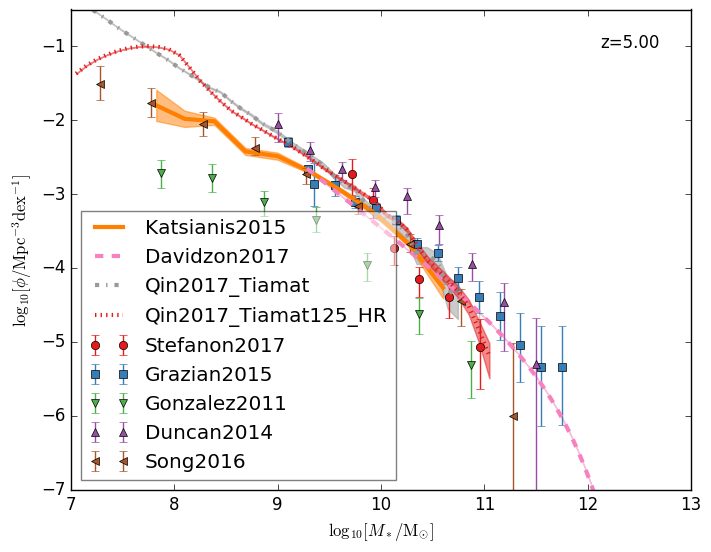
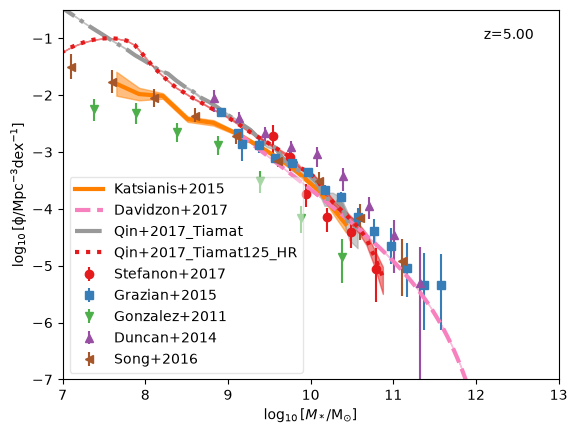
README: update the usage, examples and feature tables
- Explain the arguments and what target_observation holds, and the h
  conversions (correlation does not apply h yet, issue #7).
- Example 1: output of the current version, the same on every pandas.
- Example 2: the Magorrian example claimed an h conversion that correlation
  does not do; show the UV luminosity function at z = 7 instead.
- Example 3: plain code (it can be pasted), with the numpy import and
  positive yerr for upper limits; GSMF.png regenerated with it (current
  names, IMF_out=Kroupa and h conversions).
- Feature tables: add GLF_OIII and the x of each number density, drop BHM
  from the correlations (it is a number density).
- Docs badge, an Adding data section, and the contributors.

Changed region(s): [[0.0, 0.0, 0.9983, 0.9908], [0.8423, 0.06, 0.9359, 0.0901], [0.156, 0.2402, 0.1872, 0.2702]]

diff --git a/README.rst b/README.rst
@@ -5,18 +5,23 @@ AstroDataPy
     :target: https://github.com/qyx268/astrodatapy/actions/workflows/tests.yml
     :alt: Tests
 
+.. image:: https://readthedocs.org/projects/astrodatapy/badge/?version=latest
+    :target: https://astrodatapy.readthedocs.io/en/latest/
+    :alt: Documentation
+
 Python tools to collect astronomical data.
 
 This is a python package dedicated to collect up-to-date astronomical 
 data from both observational and modelling campaigns, with a focus on 
-galaxy properties. Current package includes 1) statistical properties 
-such as the number densities of galaxies (as functions of stellar mass, 
-UV magnitude, star formation rate) and AGN (as functions of black hole 
-mass, quasar UV/optical/bolometric/X-ray luminosities); 2) correlations 
-between 
-galaxies properties such as the Magorrian relation, Tully Fisher relation, 
-Disk size - stellar mass relation, and halo - stellar mass relation, etc; 
-and 3) clustering of quasars such as the two point correlation function.
+galaxy properties. Current package includes 1) statistical properties
+such as the number densities of galaxies (as functions of stellar mass,
+UV magnitude, [OIII] luminosity and star formation rate) and AGN (as functions
+of black hole mass and quasar UV/optical/bolometric/X-ray luminosities);
+2) correlations between galaxy properties such as the Magorrian relation,
+Tully Fisher relation, disk size - stellar mass relation and halo - stellar
+mass relation; and 3) clustering of quasars such as the two point
+correlation function. Every dataset is converted to common units and to the
+Hubble parameter you ask for.
 
 Current modelling results include DRAGONS (Meraxes).
 
@@ -52,95 +57,139 @@ Without the ``notebooks`` extra, the notebook tests are skipped.
 Usage
 =====
 
-Example 1
----------
-read quasar two point correlation function at z = 4 with a redshift range of [3.5, 4.5]
+Each of the three classes, ``number_density``, ``correlation`` and
+``clustering``, takes a feature name (see `Features`_) and a target redshift,
+and loads every dataset of that feature with a data file within ``z_tol``
+(default 0.25) of it:
 
 .. code:: python
 
+    from astrodatapy.number_density import number_density
+    obs = number_density(feature='GLF_UV', z_target=7.0, h=0.6774, quiet=True)
+
+The other arguments are ``h``, the Hubble parameter H0/(100 km/s/Mpc) to
+convert the data to (default 1); ``quiet``, to stop it printing what it loads
+and converts; and, for ``number_density`` only, ``IMF_out``, the IMF to convert
+stellar masses and star formation rates to (``Salpeter``, ``DietSalpeter``,
+``Kroupa`` or ``Chabrier``; default ``Kroupa``).
+
+The datasets found are in ``obs.target_observation``, a pandas DataFrame indexed
+by dataset name, with columns:
+
+* ``DataType``: ``data``, ``dataULimit`` (upper limits), ``data_sim`` (a model),
+  or the parametric fit it was evaluated from (e.g. ``Schechter``);
+* ``FileName``: the data file loaded;
+* ``Data``: a numpy array. For ``number_density`` its columns are x, phi, and the
+  upper and lower bound of phi, with phi linear in Mpc^-3 dex^-1 (Mpc^-3 mag^-1
+  for magnitudes); for upper limits all three phi columns hold the limit. For
+  ``correlation`` they are x, the upper and lower bound of x, y, and the upper
+  and lower bound of y.
+
+``number_density`` rescales phi as h^3, stellar masses, star formation rates
+and luminosities as h^-2, magnitudes by 5 log10(h/h_obs), and black hole masses
+according to how they were measured. ``clustering`` rescales the correlation
+length; ``correlation`` does not apply ``h`` yet (issue #7). See the
+`data format <https://github.com/qyx268/astrodatapy/blob/master/astrodatapy/data/README.rst>`__
+for details.
+
+Example 1
+---------
+read the quasar two point correlation function at z = 4 with a redshift range of [3.5, 4.5]
+
+.. code:: python
+
+    >>> import numpy as np
     >>> from astrodatapy.clustering import clustering
     >>> obs = clustering(feature = 'QC_2PTCF', z_target = 4.0, z_tol = 0.5)
-        You are requesting QC_2PTCF at z_target=4.00 with a tolerance of z_tol=0.50 and h=1.000
-        quiet=True to silent
-        available data of QC_2PTCF includes:
-        Shen2007 Shen2009 He2018 Eftekharzadeh2015 Chehade2016 Retana-Montenegro2016
-        
-        Loading observational data from He2018...
-        Filename /home/yqin/.local/lib/python3.6/site-packages/astrodatapy-0.0.dev29-py3.6.egg/astrodatapy/data//QC_2PTCF/z3pt8.dat                                                                                
-        ..done
+    You are requesting QC_2PTCF at z_target=4.00 with a tolerance of z_tol=0.50 and h=1.000
+    quiet=True to silent
+    available data of QC_2PTCF includes:
+    Shen2007 Shen2009 He2018 Eftekharzadeh2015 Chehade2016 Retana-Montenegro2016
+
+    Loading observational data from He2018...
+    Filename .../site-packages/astrodatapy/data//QC_2PTCF/z3pt8.dat
+    ..done
     >>> # show all available data of QC_2PTCF
-    >>> print(obs.available_observation)
-        ['Shen2007' 'Shen2009' 'He2018' 'Eftekharzadeh2015' 'Chehade2016'
-        'Retana-Montenegro2016']
-    >>> # show redshifts of all available data of QC_2PTCF
-    >>> print(obs.z_available_observation)
-        [0.6 1.5 3.8 2.5 3.2 4.5]
+    >>> list(obs.available_observation)
+    ['Shen2007', 'Shen2009', 'He2018', 'Eftekharzadeh2015', 'Chehade2016', 'Retana-Montenegro2016']
+    >>> # show the redshifts of all available data of QC_2PTCF
+    >>> np.sort(obs.z_available_observation)
+    array([0.6, 1.5, 2.5, 3.2, 3.8, 4.5])
     >>> # show the target data of QC_2PTCF at z = 4
-    >>> print(obs.target_observation)
-                            DataType   FileName                                               Data
-        Name                                                                                      
-        He2018  PowerLaw_2COMPONENTS  z3pt8.dat  [[0.10115794542598985, 6345.99167885821, 12459...
-        
+    >>> obs.target_observation[['DataType', 'FileName']]
+                        DataType   FileName
+    Name
+    He2018  PowerLaw_2COMPONENTS  z3pt8.dat
+
 
 Example 2
 ---------
-read Magorrian Relation at redshift 0, output with h=0.678, and do not show information
+read the UV luminosity function at z = 7, converted to h = 0.6774, without printing information
 
 .. code:: python
 
-  >>> from astrodatapy.correlation import correlation
-  >>> obs = correlation(feature = 'Magorrian', z_target = 0, quiet = 1, h = 0.678)
+    >>> from astrodatapy.number_density import number_density
+    >>> obs = number_density(feature = 'GLF_UV', z_target = 7.0, h = 0.6774, quiet = True)
+    >>> print(obs.n_target_observation)
+    14
+    >>> # M1600, phi, upper and lower bound of phi of Bouwens et al. (2021)
+    >>> obs.target_observation.loc['Bouwens2021', 'Data'][:3]
+    array([[-2.22612642e+01,  9.06236306e-07,  2.71870892e-06, -9.06236306e-07],
+           [-2.17612642e+01,  3.71556885e-05,  4.71242879e-05,  2.71870892e-05],
+           [-2.12612642e+01,  4.25931064e-05,  5.61866509e-05,  2.89995618e-05]])
 
 
 Example 3
 ---------
-plot galaxy stellar mass function at redshift 5 and show labels
+plot the galaxy stellar mass function at redshift 5 and show labels
 
 .. code:: python
 
-    >>> import matplotlib.pyplot as plt
-    >>> from astrodatapy.number_density import number_density
-    >>> colors     = ['#e41a1c','#377eb8','#4daf4a','#984ea3','#ff7f00','#a65628','#f781bf','#999999'] * 4
-    >>> markers    = ['o','s','v','^','<','>','p','*','D','.','8'] * 4
-    >>> linestyles = ['-','--','-.',':']
-    >>> 
-    >>> z   = 5.0
-    >>> obs = number_density(feature = 'GSMF', z_target = 5.0, quiet = 1, h=0.678)
-    >>> 
-    >>> j_data = 0
-    >>> k_func = 0
-    >>> fig, ax = plt.subplots(1, 1)
-    >>> for ii in range(obs.n_target_observation):
-    >>>     data       = obs.target_observation['Data'].iloc[ii]
-    >>>     label      = obs.target_observation.index[ii]
-    >>>     datatype   = obs.target_observation['DataType'].iloc[ii]
-    >>>     color      = colors[ii]
-    >>>     marker     = markers[j_data]
-    >>>     linestyle  = linestyles[k_func]
-    >>>     data[:,1:] = np.log10(data[:,1:])
-    >>>     if datatype == 'data':
-    >>>         ax.errorbar(data[:,0],  data[:,1], yerr = [data[:,1]-data[:,3],data[:,2]- data[:,1]],\
-    >>>                     label=label,color=color,fmt=marker)
-    >>>         j_data +=1
-    >>>     elif datatype == 'dataULimit':
-    >>>         ax.errorbar(data[:,0],  data[:,1], yerr = -0.2*data[:,1], uplims=True,\
-    >>>                     label=label,color=color,fmt=marker)
-    >>>         j_data +=1
-    >>>     else:
-    >>>         ax.plot(data[:,0],data[:,1],label=label,color=color,linestyle=linestyle,lw=3)
-    >>>         ax.fill_between(data[:,0], data[:,2],data[:,3],color=color,alpha=0.5)
-    >>>         k_func +=1
-    >>> 
-    >>> ax.set_xlim(7, 13)
-    >>> ax.set_ylim(-7, -0.5)
-    >>> ax.text(0.95,0.95, "z=%.2f"%z,horizontalalignment='right',\
-    >>>       verticalalignment='top',transform=ax.transAxes)
-    >>> leg = ax.legend(loc='lower left')
-    >>> leg.get_frame().set_alpha(0.5)
-    >>> ax.set_xlabel(r"$\log_{10}[M_*/{\rm M_{\odot}}]$")
-    >>> ax.set_ylabel(r"$\log_{10}[\rm \phi/Mpc^{-3} dex^{-1}]$")
-    >>> plt.savefig('./GSMF.png',bbox_inches='tight')
-   
+    import numpy as np
+    import matplotlib.pyplot as plt
+    from astrodatapy.number_density import number_density
+
+    colors     = ['#e41a1c','#377eb8','#4daf4a','#984ea3','#ff7f00','#a65628','#f781bf','#999999'] * 4
+    markers    = ['o','s','v','^','<','>','p','*','D','.','8'] * 4
+    linestyles = ['-','--','-.',':']
+
+    z   = 5.0
+    obs = number_density(feature='GSMF', z_target=z, quiet=True, h=0.678)
+
+    j_data = 0
+    k_func = 0
+    fig, ax = plt.subplots(1, 1)
+    for ii in range(obs.n_target_observation):
+        data      = obs.target_observation['Data'].iloc[ii]
+        label     = obs.target_observation.index[ii]
+        datatype  = obs.target_observation['DataType'].iloc[ii]
+        color     = colors[ii]
+        marker    = markers[j_data]
+        linestyle = linestyles[k_func]
+        data[:,1:] = np.log10(data[:,1:])
+        if datatype == 'data':
+            ax.errorbar(data[:,0], data[:,1], yerr=[data[:,1]-data[:,3], data[:,2]-data[:,1]],
+                        label=label, color=color, fmt=marker)
+            j_data += 1
+        elif datatype == 'dataULimit':
+            ax.errorbar(data[:,0], data[:,1], yerr=0.2*np.abs(data[:,1]), uplims=True,
+                        label=label, color=color, fmt=marker)
+            j_data += 1
+        else:
+            ax.plot(data[:,0], data[:,1], label=label, color=color, linestyle=linestyle, lw=3)
+            ax.fill_between(data[:,0], data[:,2], data[:,3], color=color, alpha=0.5)
+            k_func += 1
+
+    ax.set_xlim(7, 13)
+    ax.set_ylim(-7, -0.5)
+    ax.text(0.95, 0.95, "z=%.2f" % z, horizontalalignment='right',
+            verticalalignment='top', transform=ax.transAxes)
+    leg = ax.legend(loc='lower left')
+    leg.get_frame().set_alpha(0.5)
+    ax.set_xlabel(r"$\log_{10}[M_*/{\rm M_{\odot}}]$")
+    ax.set_ylabel(r"$\log_{10}[\rm \phi/Mpc^{-3} dex^{-1}]$")
+    plt.savefig('./GSMF.png', bbox_inches='tight')
+
 .. image:: https://raw.githubusercontent.com/qyx268/astrodatapy/master/docs/astrodatapy/GSMF.png
   :width: 350
 
@@ -152,75 +201,36 @@ shows how different datasets are combined into one empirical constraint
 Documentation
 =============
 
-http://astrodatapy.readthedocs.io
+https://astrodatapy.readthedocs.io, including a list of every dataset with its
+redshifts and reference.
 
 Features
-============
+========
 
 Number density
 --------------
 
-==============             ==========================================
-**Features**               **Descriptions**
---------------             ------------------------------------------
-BHM                        Black Hole Mass
-BHMF                       Black Hole Mass Function
-GLF_UV                     Galaxy Luminosity Function -- UV
-GSMF                       Galaxy Stellar Mass Function -- all
-GSMF_Blue                  Galaxy Stellar Mass Function -- blue
-GSMF_Bulge                 Galaxy Stellar Mass Function -- bulge
-GSMF_Disk                  Galaxy Stellar Mass Function -- disk
-GSMF_Quiescent             Galaxy Stellar Mass Function -- quiescent
-GSMF_Red                   Galaxy Stellar Mass Function -- red
-QLF_bolometric             Quasar Luminosity Function -- bolometric
-QLF_optical                Quasar Luminosity Function -- optical
-QLF_UV                     Quasar Luminosity Function -- UV
-QLF_Xray                   Quasar Luminosity Function -- X-ray
-SFRF                       Star Formation Rate Function
-==============             ==========================================
+==============  =========================================  ======================================
+**Features**    **Descriptions**                           **x**
+--------------  -----------------------------------------  --------------------------------------
+BHM             Black Hole Mass                            redshift (y is the black hole mass)
+BHMF            Black Hole Mass Function                   log10(M_BH/Msun)
+GLF_UV          Galaxy Luminosity Function -- UV           M1600 or M1500 (AB)
+GLF_OIII        Galaxy Luminosity Function -- [OIII] 5008  log10(L[OIII]/erg s^-1)
+GSMF            Galaxy Stellar Mass Function -- all        log10(M*/Msun)
+GSMF_Blue       Galaxy Stellar Mass Function -- blue       log10(M*/Msun)
+GSMF_Bulge      Galaxy Stellar Mass Function -- bulge      log10(M*/Msun)
+GSMF_Disk       Galaxy Stellar Mass Function -- disk       log10(M*/Msun)
+GSMF_Quiescent  Galaxy Stellar Mass Function -- quiescent  log10(M*/Msun)
+GSMF_Red        Galaxy Stellar Mass Function -- red        log10(M*/Msun)
+QLF_bolometric  Quasar Luminosity Function -- bolometric   log10(L_bol/Lsun)
+QLF_optical     Quasar Luminosity Function -- optical      M_B
+QLF_UV          Quasar Luminosity Function -- UV           M1450 or M1500 (AB)
+QLF_Xray        Quasar Luminosity Function -- X-ray        log10(L_X/erg s^-1), rest 2-10 keV
+SFRF            Star Formation Rate Function               log10(SFR/Msun yr^-1)
+==============  =========================================  ======================================
 
-QLF_Xray data
-~~~~~~~~~~~~~
-
-The X-ray luminosity function is tabulated against ``log10(LX/erg s^-1)`` in
-the rest-frame 2-10 keV band, with ``Phi = dPhi/dlogLX`` in
-``Mpc^-3 dex^-1``. Because the abscissa is a luminosity rather than a
-magnitude, it is rescaled as ``h^-2``, as for QLF_bolometric.
-
-=====================  ============  =======================================================
-**Dataset**            **Redshift**  **Reference**
----------------------  ------------  -------------------------------------------------------
-BarlowHall2022         6.05          Barlow-Hall et al. 2023, MNRAS 519, 6055 (Swift/ExSeSS)
-BarlowHall2022_ulimit  6.05          as above, 1 sigma upper limit
-Meraxes_obscured       5.007, 6.088  Meraxes (DRAGONS) model line, after obscuration
-Pouliasis2024          5.5           Pouliasis et al. 2024, A&A 685, A97 (Chandra + XMM)
-Pouliasis2024_ulimit   5.5           as above, 1 sigma upper limits
-Roster2026_DR2         0.1 - 4.9     Roster et al. 2026, arXiv:2607.27887 (eROSITA DR2)
-Roster2026_eFEDS       0.1 - 4.9     Roster et al. 2026, arXiv:2607.27887 (eROSITA eFEDS)
-Wolf2021               6.05          Wolf et al. 2021, A&A 647, A5 (eROSITA/eFEDS)
-=====================  ============  =======================================================
-
-The redshift column gives the value to pass as ``z_target``. Each observational
-file is tabulated at the centre of its redshift bin: 5.0-6.0 for Pouliasis2024 and
-5.7-6.4 for Wolf2021 and BarlowHall2022. Roster2026 provides nine redshifts,
-0.1, 0.4, 0.7, 1.0, 1.5, 2.0, 3.0, 4.0 and 4.9, one file each, so use a small
-``z_tol`` to select a single one.
-
-``info.txt`` also gives the width of each dataset's luminosity bins in dex
-(column ``BinWidth``: 0.5 for Pouliasis2024 and Wolf2021, 1.0 for Barlow-Hall and Roster, 0.2 for
-the model line), so that a point can be drawn with an x error bar of half that width.
-
-``Meraxes_obscured`` is a model line, not data (type ``data_sim``, drawn as a line with a band, like
-``Qin2017_Tiamat`` in the other quasar luminosity functions). It is the X-ray luminosity function of the
-Meraxes (DRAGONS) semi-analytic model after obscuration, i.e. the observed 2-10 keV luminosity, not absorption
-corrected, in 0.2 dex bins at z = 5.007 and 6.088 (the Genesis trees end at z = 5). Its band is the
-Bernoulli duty-cycle uncertainty that Meraxes saves, which does not include Poisson noise or cosmic
-variance, and only bins expected to hold at least 10 AGN are listed. Its ``h`` is the model's, 0.6751.
-
-The ``h`` of each source paper is used when rescaling: 0.68 for Wolf2021, 0.6751 for Meraxes_obscured and
-0.70 for the others. Every data file carries a header giving the figure or
-table its values came from (or, for the model line, how it was made), the energy band,
-the column-density range and the cosmology.
+phi is per dex, or per magnitude when x is a magnitude.
 
 Correlation
 -----------
@@ -229,7 +239,6 @@ Correlation
 =========================  ================================================
 **Features**               **Descriptions**
 -------------------------  ------------------------------------------------
-BHM                        Black Hole Mass
 Magorrian                  Black Hole - Galaxy Bulge Mass Scaling Relation
 Tully_Fisher               Mass - Velocity of Spiral Galaxies
 DiskSize_StellarMass       DiskSize - StellarMass
@@ -249,6 +258,15 @@ Clustering
 QC_2PTCF                   Quasar Clustering -- 2 point correlation function
 ==============             =================================================
 
+Adding data
+===========
+
+Each feature is a directory in ``astrodatapy/data`` with an ``info.txt`` that
+lists its datasets, and one file per redshift for each dataset. The
+`data format <https://github.com/qyx268/astrodatapy/blob/master/astrodatapy/data/README.rst>`__
+describes these files, the units and the h conversions, and how to add a
+dataset. Pull requests with new data are welcome.
+
 License
 =======
 
@@ -260,3 +278,6 @@ Contributors
 ============
 
 * Yuxiang Qin (The University of Melbourne)
+
+with contributions from Balu Sreedhar, Fatma Shaban, Varun Nikam, Madeline
+Marshall and Simon Mutch.
